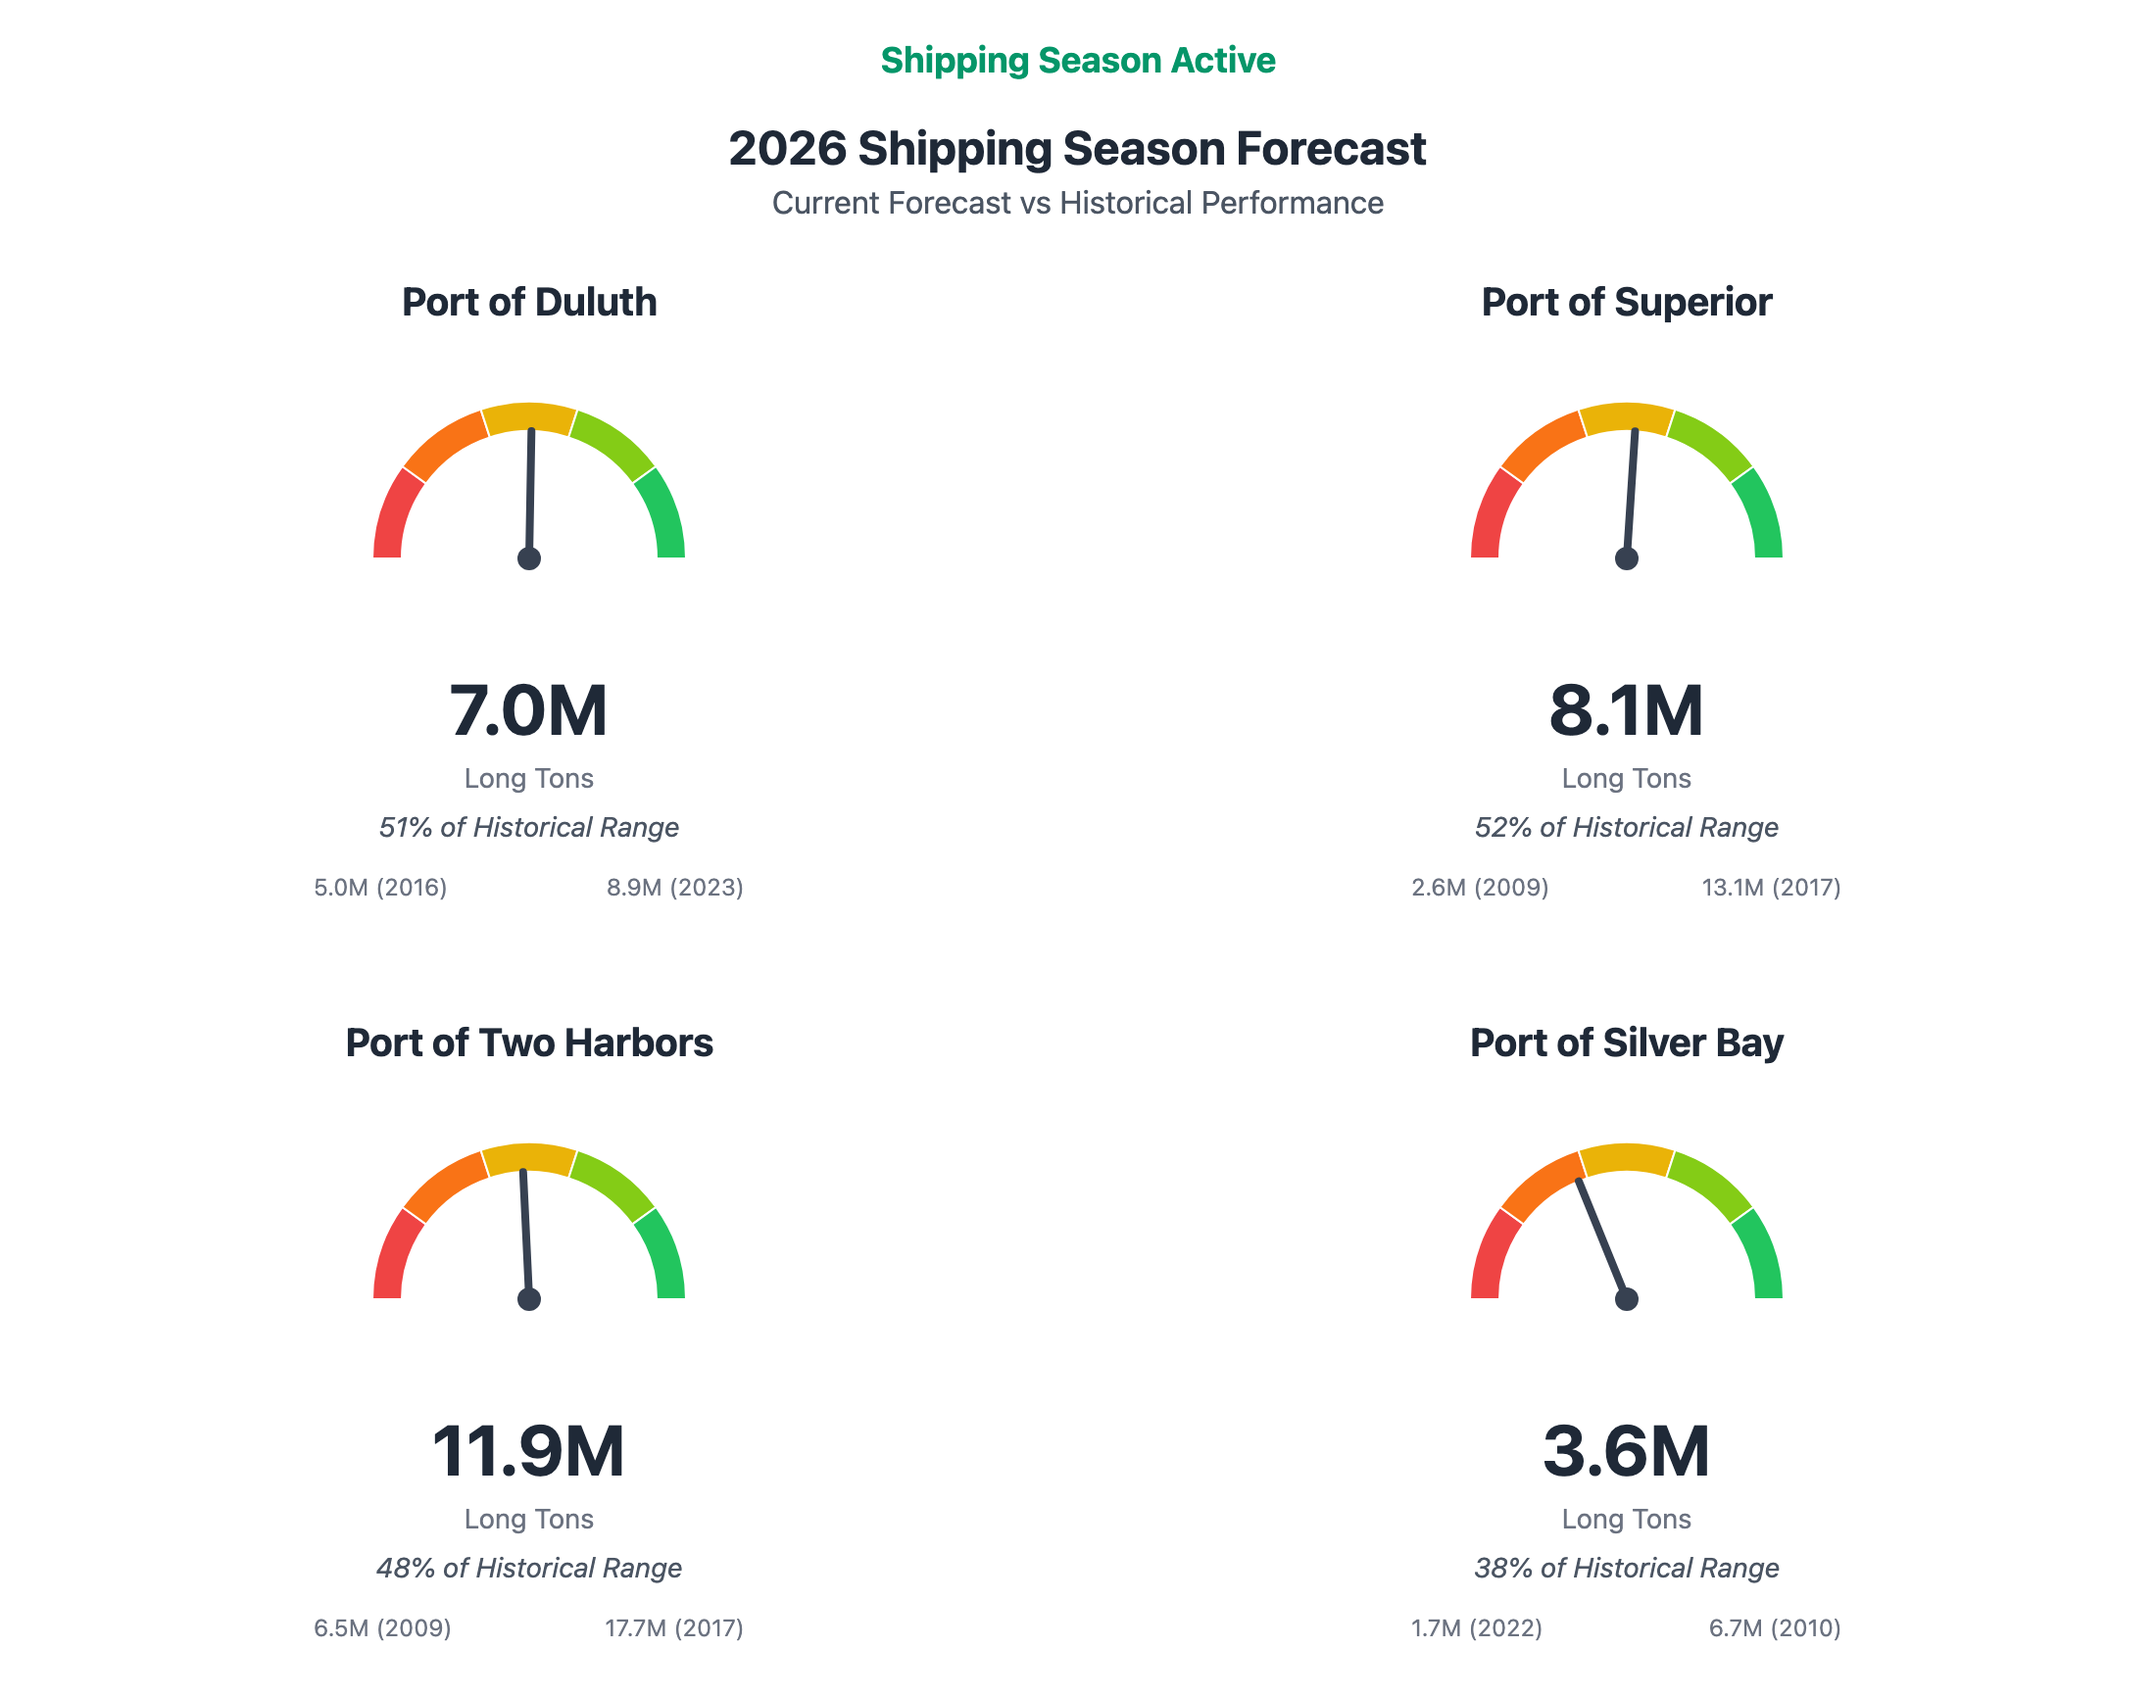
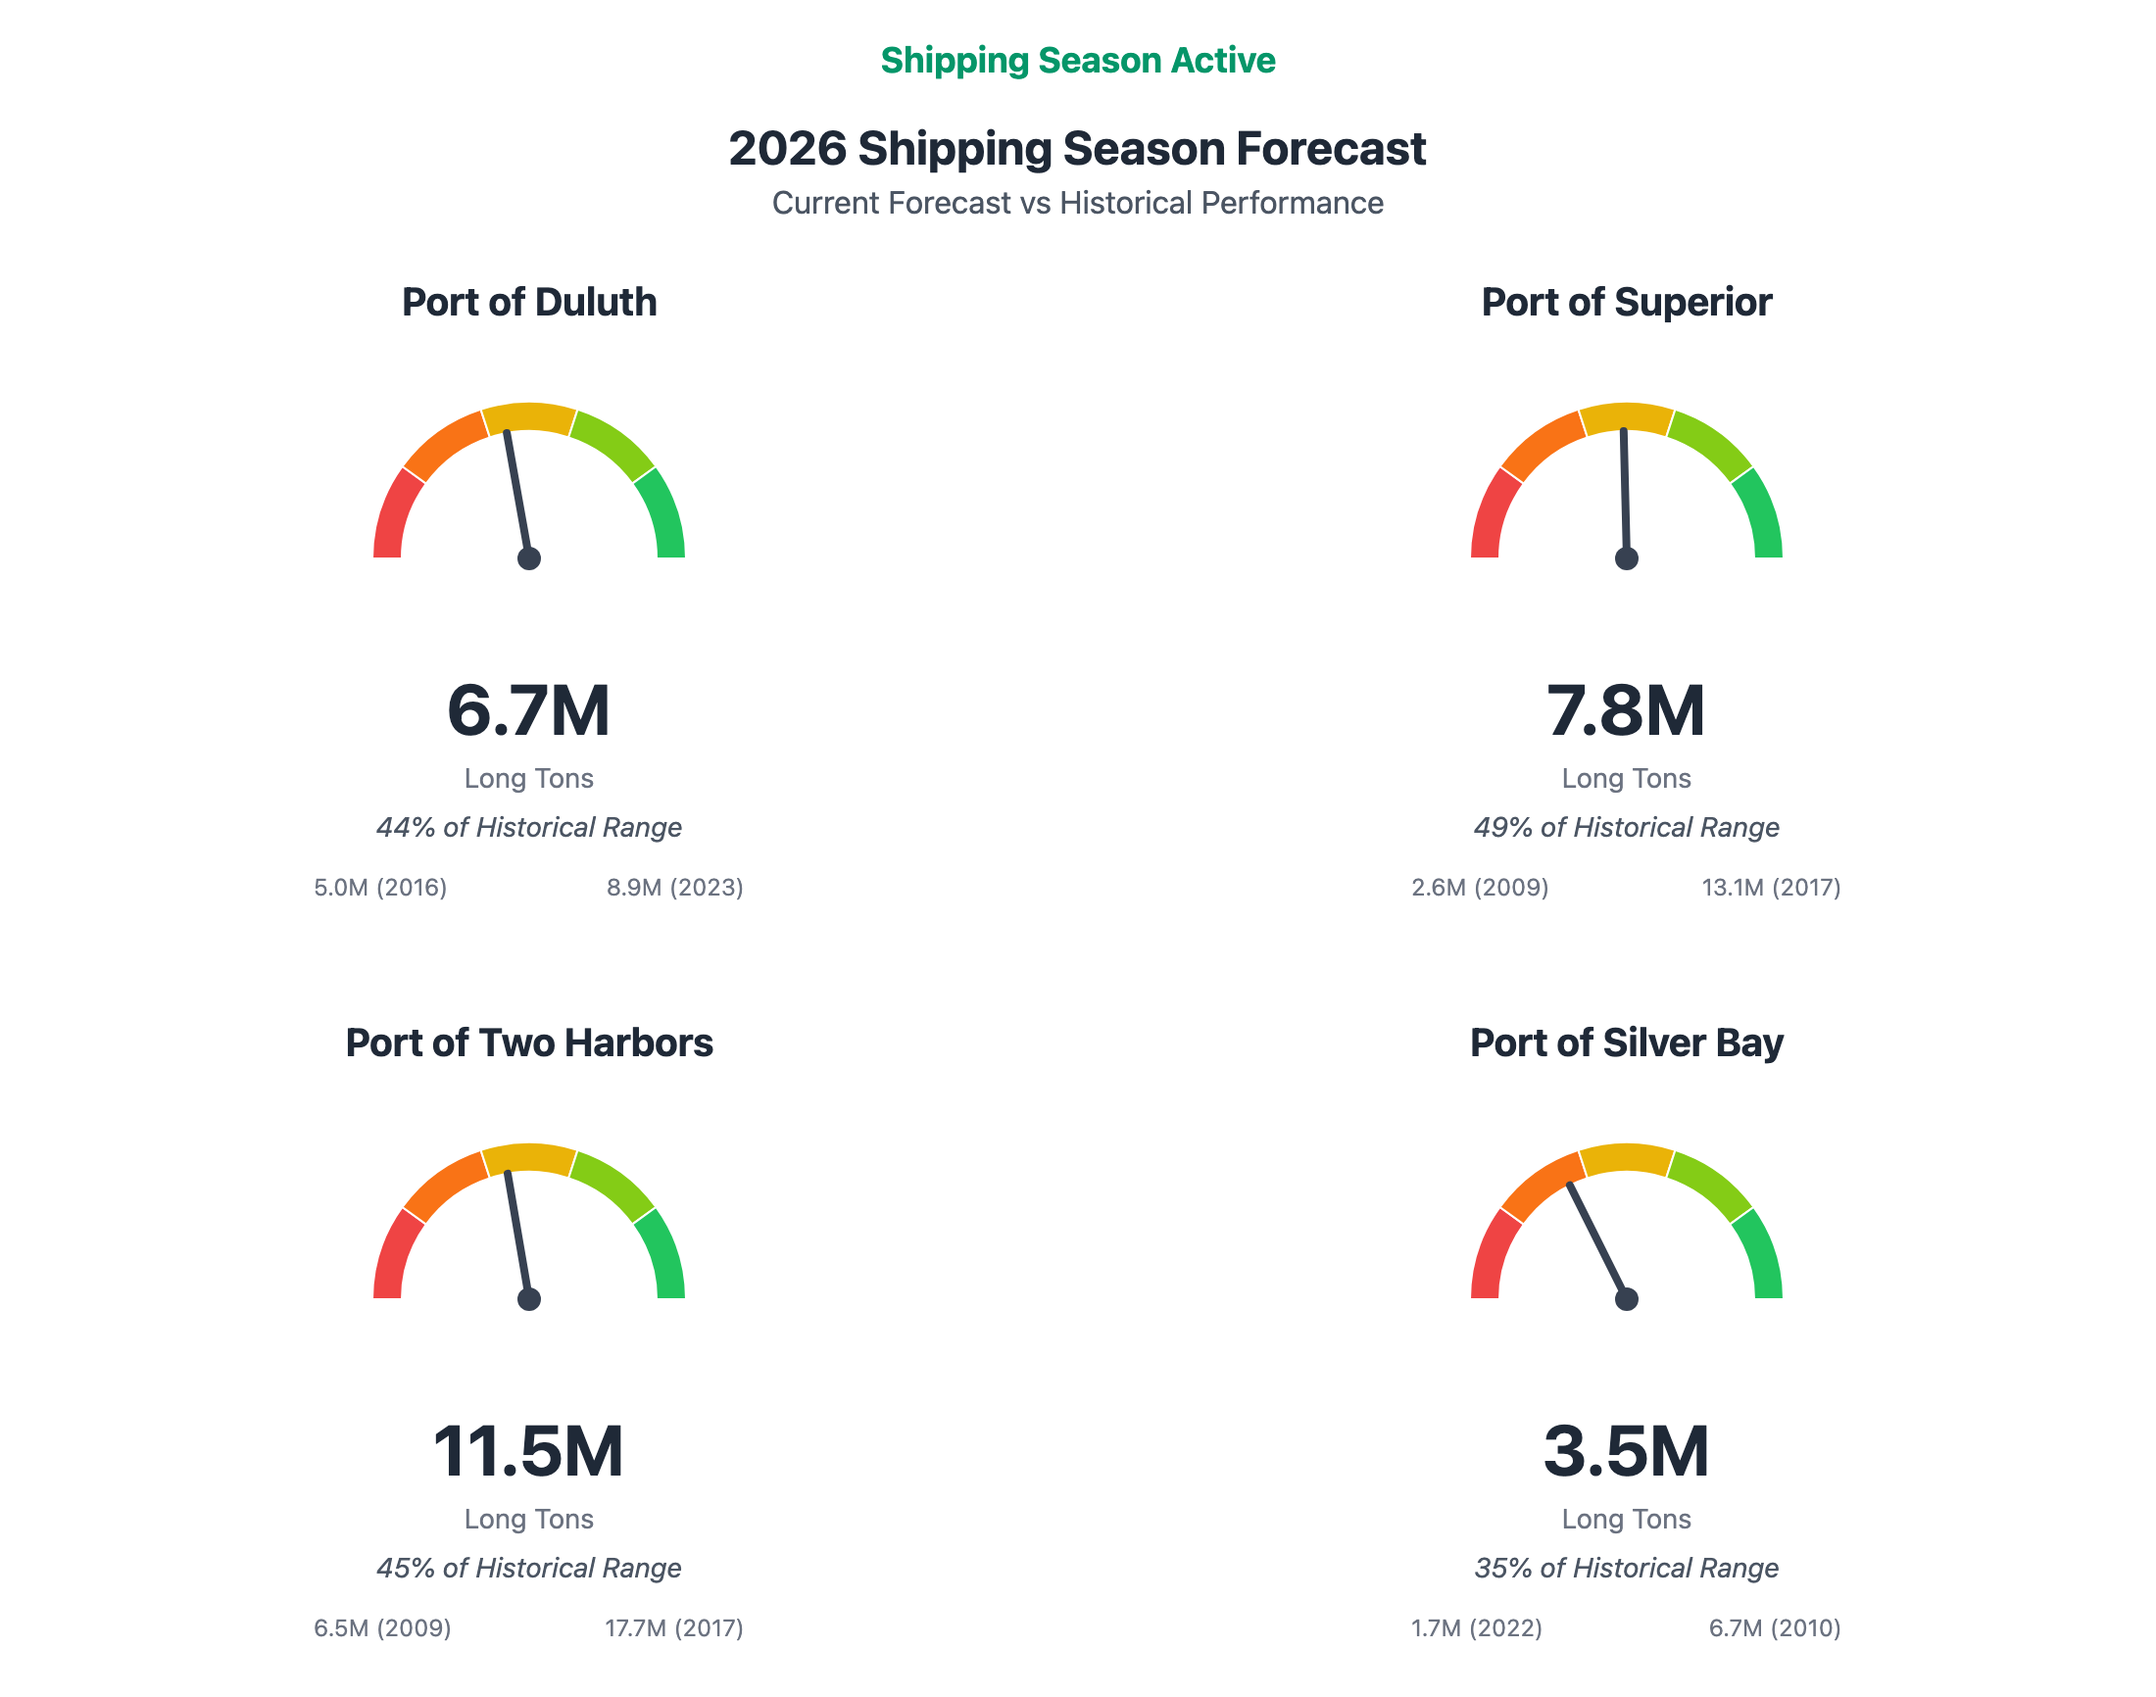
Auto-update: Model forecasts 2026-08-11 16:37:27

diff --git a/static/models/port_forecasts_dashboard.html b/static/models/port_forecasts_dashboard.html
@@ -180,7 +180,7 @@
                 <svg class="gauge-svg" width="250" height="140" viewBox="0 0 250 140">
                     <g id="duluth-gauge"></g>
                 </svg>
-                <div class="gauge-value">7.0M</div>
+                <div class="gauge-value">6.7M</div>
                 <div class="gauge-unit">Long Tons</div>
                 <div class="gauge-percentage"></div>
                 <div class="gauge-range">
@@ -194,7 +194,7 @@
                 <svg class="gauge-svg" width="250" height="140" viewBox="0 0 250 140">
                     <g id="superior-gauge"></g>
                 </svg>
-                <div class="gauge-value">8.1M</div>
+                <div class="gauge-value">7.8M</div>
                 <div class="gauge-unit">Long Tons</div>
                 <div class="gauge-percentage"></div>
                 <div class="gauge-range">
@@ -208,7 +208,7 @@
                 <svg class="gauge-svg" width="250" height="140" viewBox="0 0 250 140">
                     <g id="two-harbors-gauge"></g>
                 </svg>
-                <div class="gauge-value">11.9M</div>
+                <div class="gauge-value">11.5M</div>
                 <div class="gauge-unit">Long Tons</div>
                 <div class="gauge-percentage"></div>
                 <div class="gauge-range">
@@ -222,7 +222,7 @@
                 <svg class="gauge-svg" width="250" height="140" viewBox="0 0 250 140">
                     <g id="silver-bay-gauge"></g>
                 </svg>
-                <div class="gauge-value">3.6M</div>
+                <div class="gauge-value">3.5M</div>
                 <div class="gauge-unit">Long Tons</div>
                 <div class="gauge-percentage"></div>
                 <div class="gauge-range">
@@ -233,8 +233,8 @@
         </div>
 
         <div class="total-forecast">
-            <div class="total-text">Total System Forecast: 30.6 Million Long Tons</div>
-            <div class="total-range">80% Range: 23.5 - 37.7 Million Long Tons (P10-P90)</div>
+            <div class="total-text">Total System Forecast: 29.5 Million Long Tons</div>
+            <div class="total-range">80% Range: 22.4 - 36.6 Million Long Tons (P10-P90)</div>
         </div>
 
         <div class="legend">
@@ -270,25 +270,25 @@
         const ports = [
             {
                 id: 'duluth-gauge',
-                current: 6.972,
+                current: 6.731,
                 min: 5.0,
                 max: 8.9
             },
             {
                 id: 'superior-gauge',
-                current: 8.067,
+                current: 7.768,
                 min: 2.6,
                 max: 13.1
             },
             {
                 id: 'two-harbors-gauge',
-                current: 11.93,
+                current: 11.495,
                 min: 6.5,
                 max: 17.7
             },
             {
                 id: 'silver-bay-gauge',
-                current: 3.585,
+                current: 3.463,
                 min: 1.7,
                 max: 6.7
             }
